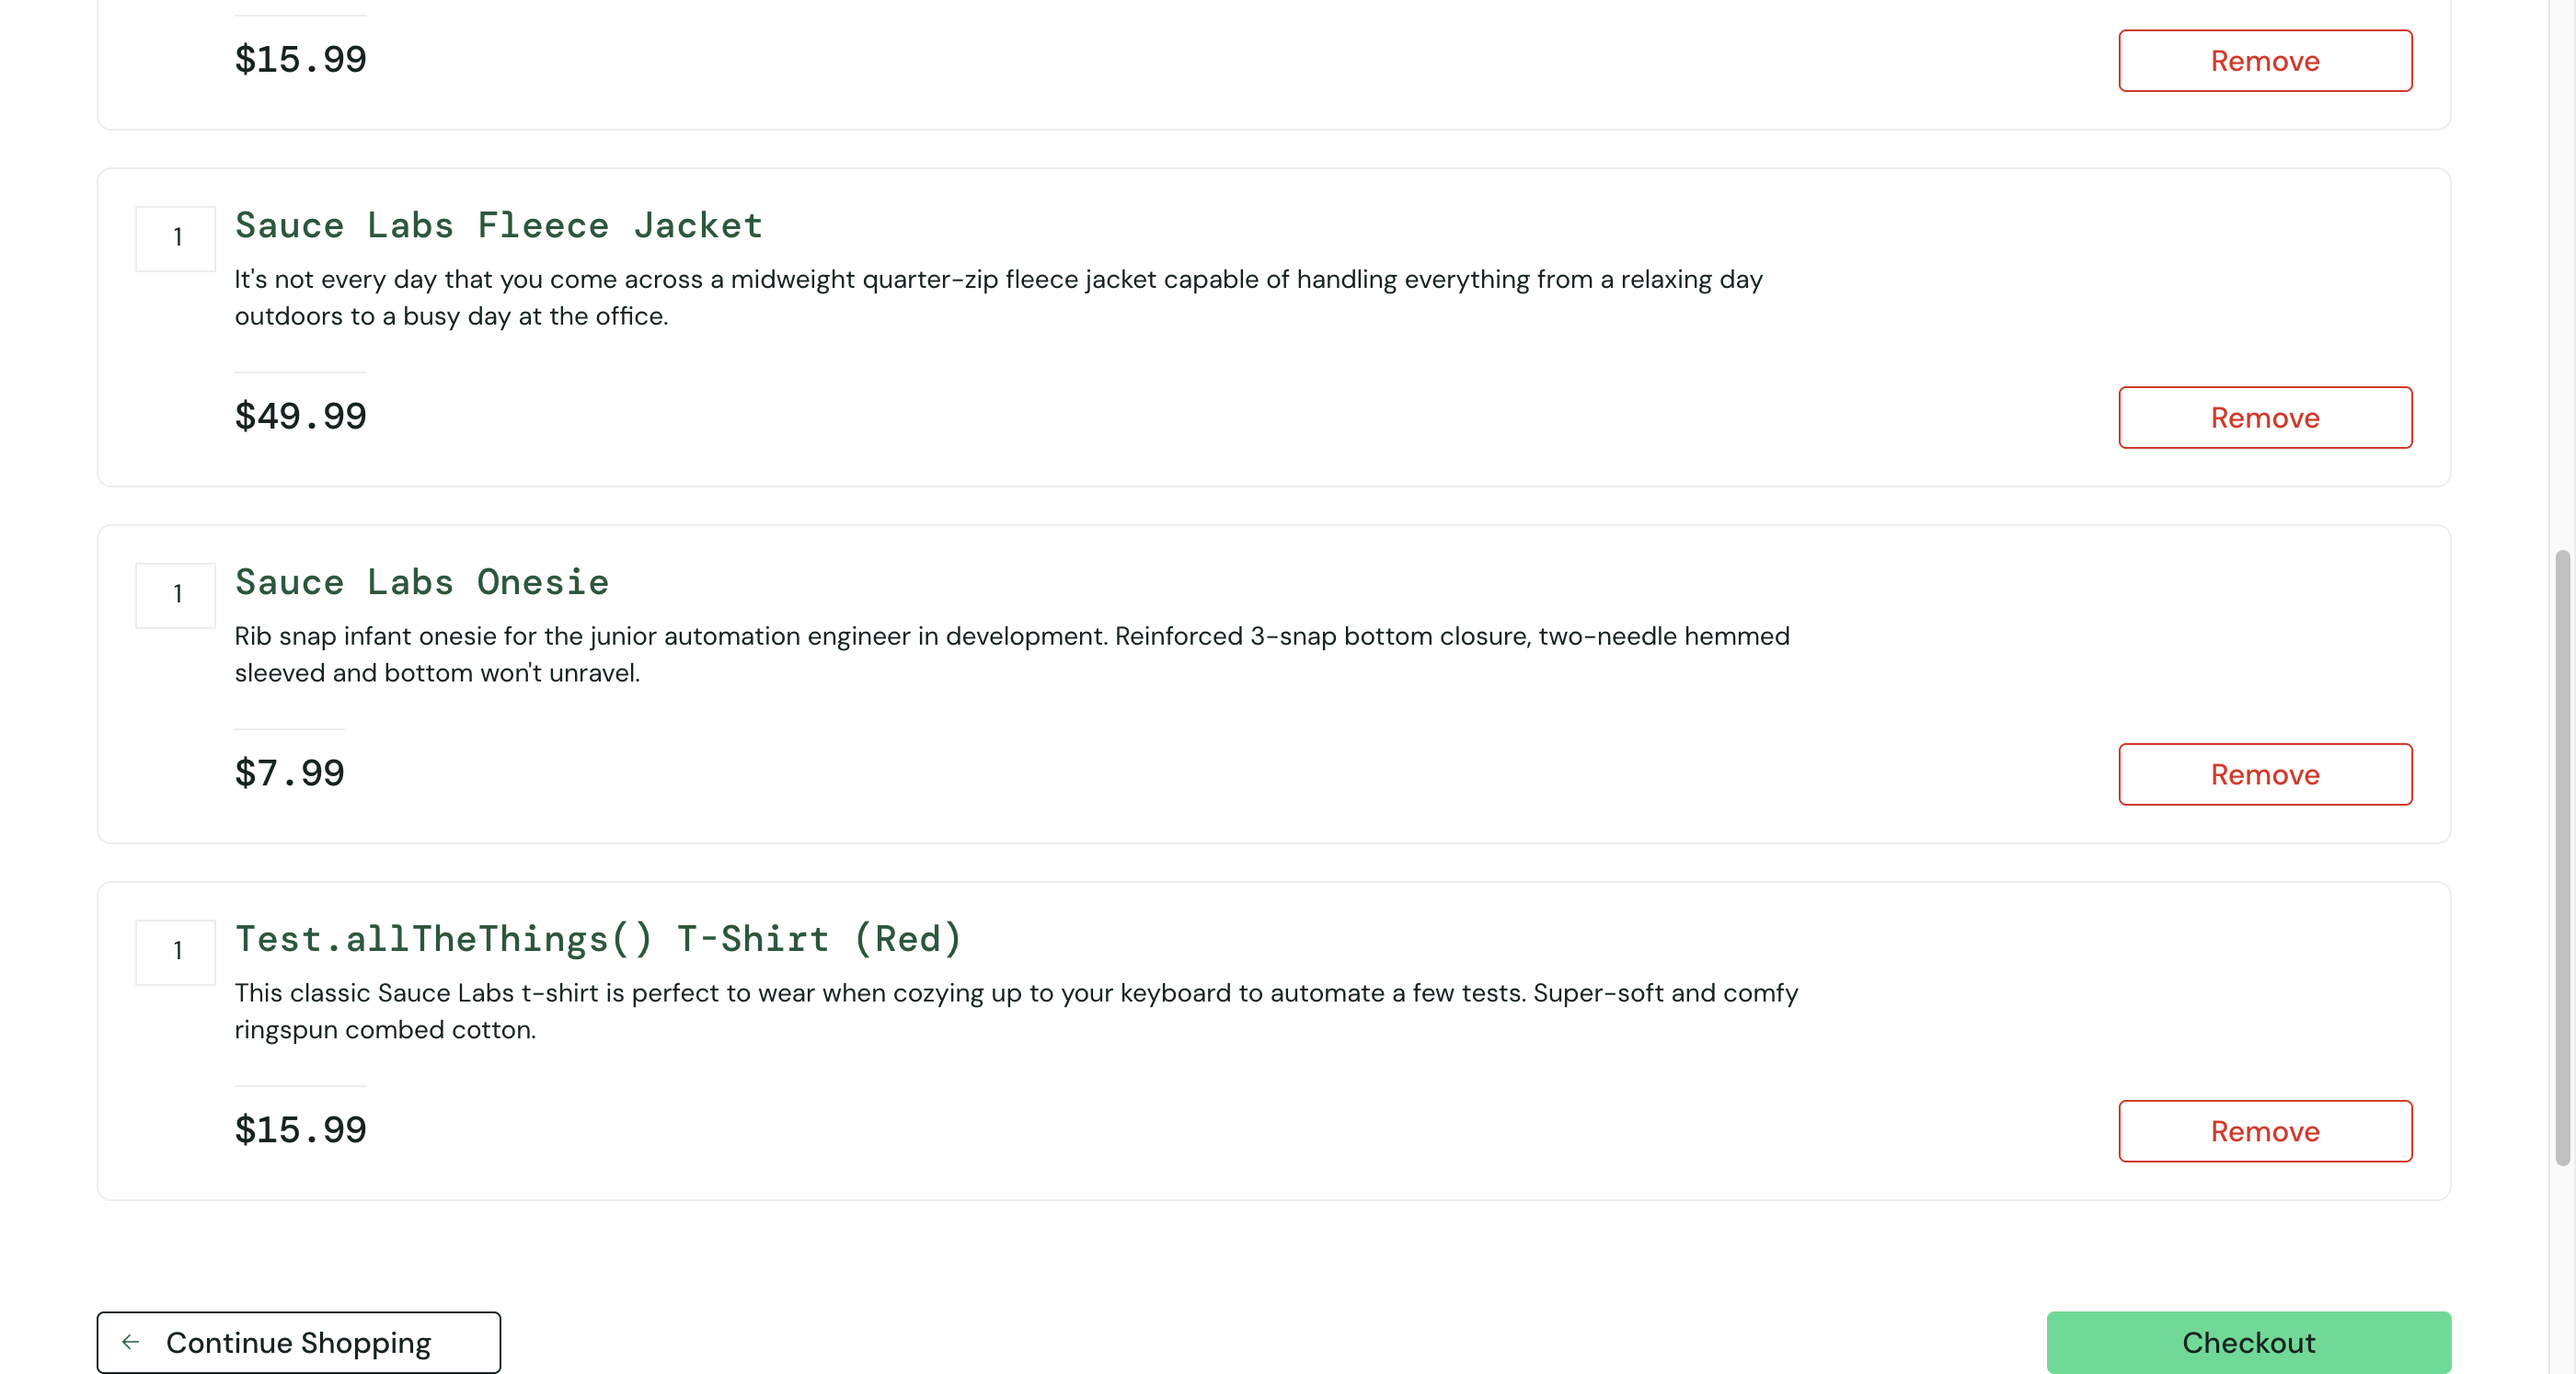
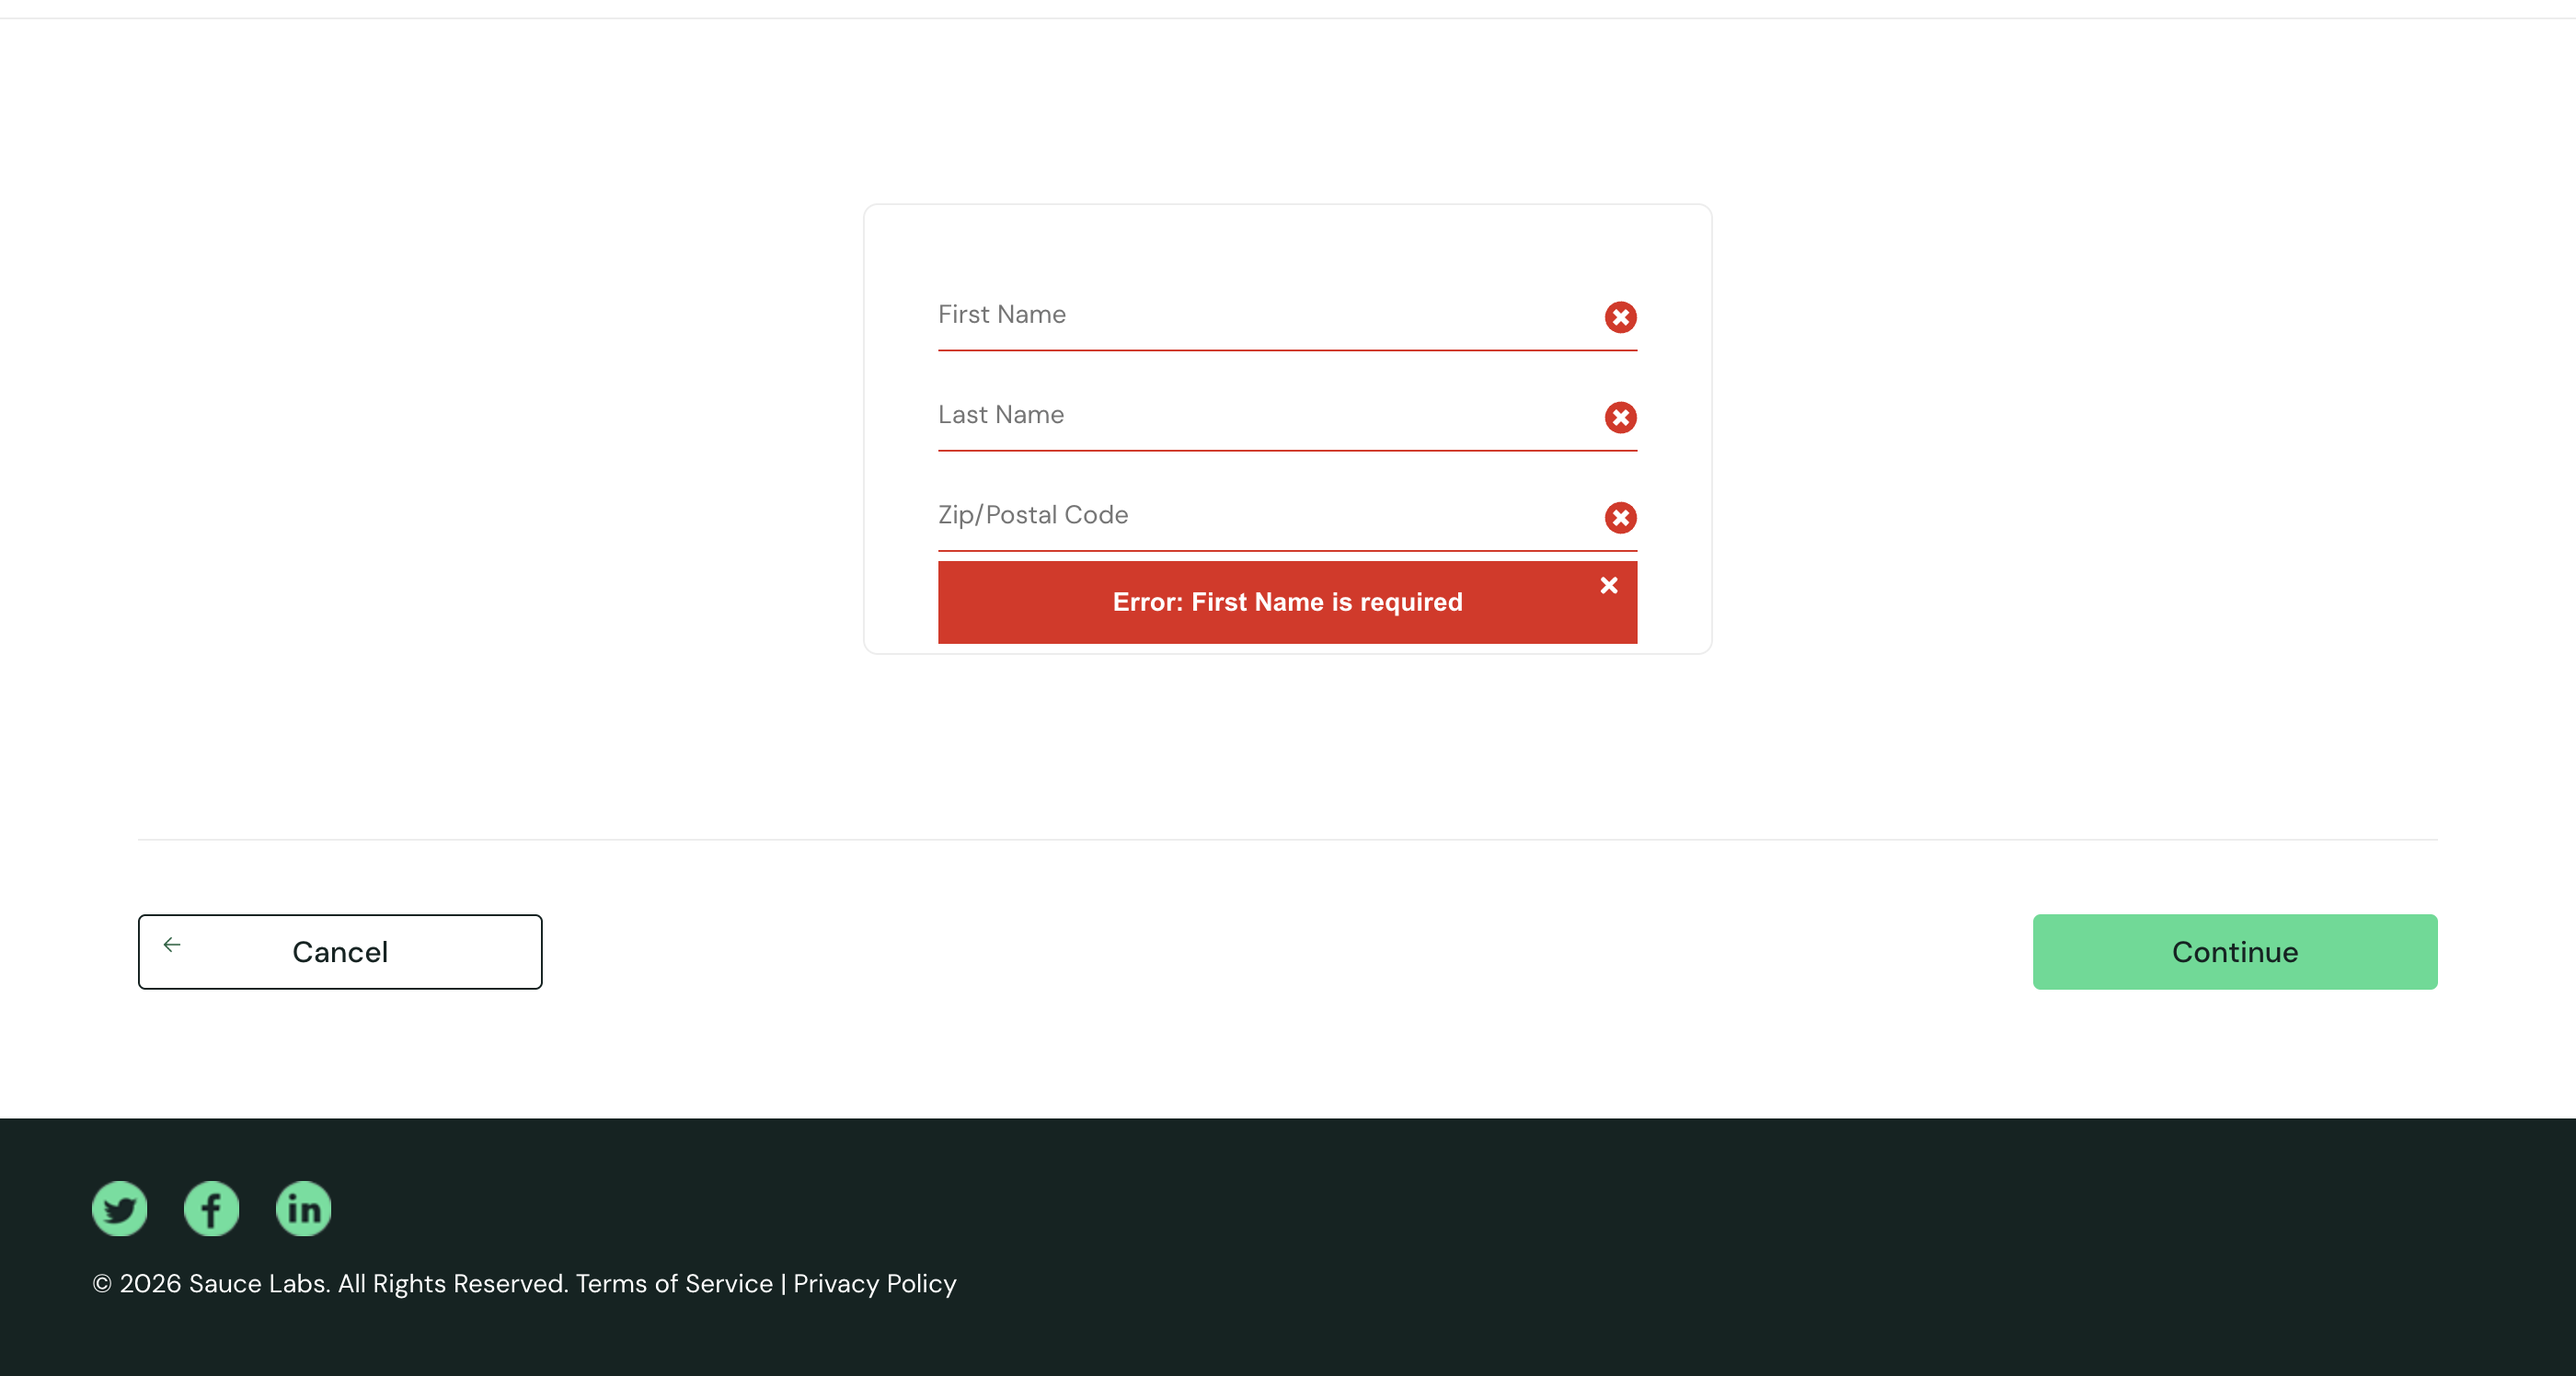
finish the UI check

diff --git a/qa-automation/reports/report.html b/qa-automation/reports/report.html
@@ -328,7 +328,7 @@ div.media {
   </head>
   <body>
     <h1 id="title">report.html</h1>
-    <p>Report generated on 31-Dec-2025 at 08:13:01 by <a href="https://pypi.python.org/pypi/pytest-html">pytest-html</a>
+    <p>Report generated on 03-Jan-2026 at 05:57:52 by <a href="https://pypi.python.org/pypi/pytest-html">pytest-html</a>
         v4.1.1</p>
     <div id="environment-header">
       <h2>Environment</h2>
@@ -382,7 +382,7 @@ div.media {
         <h2>Summary</h2>
         <div class="additional-summary prefix">
         </div>
-        <p class="run-count">1 test took 00:00:06.</p>
+        <p class="run-count">1 test took 00:00:07.</p>
         <p class="filter">(Un)check the boxes to filter the results.</p>
         <div class="summary__reload">
           <div class="summary__reload__button hidden" onclick="location.reload()">
@@ -429,7 +429,7 @@ div.media {
     </table>
   </body>
   <footer>
-    <div id="data-container" data-jsonblob="{&#34;environment&#34;: {&#34;Python&#34;: &#34;3.13.7&#34;, &#34;Platform&#34;: &#34;macOS-26.1-arm64-arm-64bit-Mach-O&#34;, &#34;Packages&#34;: {&#34;pytest&#34;: &#34;9.0.2&#34;, &#34;pluggy&#34;: &#34;1.6.0&#34;}, &#34;Plugins&#34;: {&#34;html&#34;: &#34;4.1.1&#34;, &#34;metadata&#34;: &#34;3.1.1&#34;}, &#34;JAVA_HOME&#34;: &#34;/Library/Java/JavaVirtualMachines/jdk-25.jdk/Contents/Home&#34;}, &#34;tests&#34;: {&#34;ui/tests/test_homepage.py::test_continue_checkout&#34;: [{&#34;extras&#34;: [], &#34;result&#34;: &#34;Passed&#34;, &#34;testId&#34;: &#34;ui/tests/test_homepage.py::test_continue_checkout&#34;, &#34;duration&#34;: &#34;00:00:06&#34;, &#34;resultsTableRow&#34;: [&#34;&lt;td class=\&#34;col-result\&#34;&gt;Passed&lt;/td&gt;&#34;, &#34;&lt;td class=\&#34;col-testId\&#34;&gt;ui/tests/test_homepage.py::test_continue_checkout&lt;/td&gt;&#34;, &#34;&lt;td class=\&#34;col-duration\&#34;&gt;00:00:06&lt;/td&gt;&#34;, &#34;&lt;td class=\&#34;col-links\&#34;&gt;&lt;/td&gt;&#34;], &#34;log&#34;: &#34;----------------------------- Captured stdout call -----------------------------\nurl https://www.saucedemo.com/checkout-step-two.html\n&#34;}]}, &#34;renderCollapsed&#34;: [&#34;passed&#34;], &#34;initialSort&#34;: &#34;result&#34;, &#34;title&#34;: &#34;report.html&#34;}"></div>
+    <div id="data-container" data-jsonblob="{&#34;environment&#34;: {&#34;Python&#34;: &#34;3.13.7&#34;, &#34;Platform&#34;: &#34;macOS-26.1-arm64-arm-64bit-Mach-O&#34;, &#34;Packages&#34;: {&#34;pytest&#34;: &#34;9.0.2&#34;, &#34;pluggy&#34;: &#34;1.6.0&#34;}, &#34;Plugins&#34;: {&#34;html&#34;: &#34;4.1.1&#34;, &#34;metadata&#34;: &#34;3.1.1&#34;}, &#34;JAVA_HOME&#34;: &#34;/Library/Java/JavaVirtualMachines/jdk-25.jdk/Contents/Home&#34;}, &#34;tests&#34;: {&#34;ui/tests/test_homepage.py::test_continue_checkout&#34;: [{&#34;extras&#34;: [], &#34;result&#34;: &#34;Passed&#34;, &#34;testId&#34;: &#34;ui/tests/test_homepage.py::test_continue_checkout&#34;, &#34;duration&#34;: &#34;00:00:07&#34;, &#34;resultsTableRow&#34;: [&#34;&lt;td class=\&#34;col-result\&#34;&gt;Passed&lt;/td&gt;&#34;, &#34;&lt;td class=\&#34;col-testId\&#34;&gt;ui/tests/test_homepage.py::test_continue_checkout&lt;/td&gt;&#34;, &#34;&lt;td class=\&#34;col-duration\&#34;&gt;00:00:07&lt;/td&gt;&#34;, &#34;&lt;td class=\&#34;col-links\&#34;&gt;&lt;/td&gt;&#34;], &#34;log&#34;: &#34;----------------------------- Captured stdout call -----------------------------\nafter continue url: https://www.saucedemo.com/checkout-step-two.html\nCheckout completed \u2705\n&#34;}]}, &#34;renderCollapsed&#34;: [&#34;passed&#34;], &#34;initialSort&#34;: &#34;result&#34;, &#34;title&#34;: &#34;report.html&#34;}"></div>
     <script>
       (function(){function r(e,n,t){function o(i,f){if(!n[i]){if(!e[i]){var c="function"==typeof require&&require;if(!f&&c)return c(i,!0);if(u)return u(i,!0);var a=new Error("Cannot find module '"+i+"'");throw a.code="MODULE_NOT_FOUND",a}var p=n[i]={exports:{}};e[i][0].call(p.exports,function(r){var n=e[i][1][r];return o(n||r)},p,p.exports,r,e,n,t)}return n[i].exports}for(var u="function"==typeof require&&require,i=0;i<t.length;i++)o(t[i]);return o}return r})()({1:[function(require,module,exports){
 const { getCollapsedCategory, setCollapsedIds } = require('./storage.js')

diff --git a/qa-automation/ui/pages/login_page.py b/qa-automation/ui/pages/login_page.py
@@ -1,17 +1,17 @@
 from selenium.webdriver.common.by import By
-import time
+from selenium.webdriver.support.ui import WebDriverWait
+from selenium.webdriver.support import expected_conditions as EC
 
 
 def open_login(driver):
     driver.get("https://www.saucedemo.com/")
+
 
 def do_login(driver, username, password):
     driver.find_element(By.ID, "user-name").send_keys(username)
     driver.find_element(By.ID, "password").send_keys(password)
     driver.find_element(By.ID, "login-button").click()
 
-def get_error_message(driver):
-    return driver.find_element(By.CSS_SELECTOR, "h3[data-test='error']")
 
 def add_all_products_to_cart(driver):
     buttons = driver.find_elements(By.CLASS_NAME, "btn_inventory")
@@ -19,24 +19,35 @@ def add_all_products_to_cart(driver):
         btn.click()
     return len(buttons)
 
+
 def go_to_cart(driver):
-    cart_link = driver.find_element(By.CLASS_NAME, "shopping_cart_link")
-    cart_link.click()
-    return
-
-def checkout(driver):
-    checkout_button = driver.find_element(By.CSS_SELECTOR, ".checkout_button")
-    checkout_button.click()
+    driver.find_element(By.CLASS_NAME, "shopping_cart_link").click()
 
 
-def fill_checkout_info(driver, first_name, last_name, postal_code):
-    driver.find_element(By.ID, "first-name").send_keys(first_name)
+def click_checkout(driver):
+    # SauceDemo checkout button is id="checkout"
+    WebDriverWait(driver, 10).until(
+        EC.element_to_be_clickable((By.ID, "checkout"))
+    ).click()
+
+
+def fill_info_and_continue(driver, first_name, last_name, postal_code):
+    wait = WebDriverWait(driver, 10)
+    wait.until(EC.visibility_of_element_located((By.ID, "first-name"))).send_keys(first_name)
     driver.find_element(By.ID, "last-name").send_keys(last_name)
     driver.find_element(By.ID, "postal-code").send_keys(postal_code)
-    
-def continue_checkout(driver):
-    driver.find_element(By.ID, "continue").click()
+    wait.until(EC.element_to_be_clickable((By.ID, "continue"))).click()
 
 
+def click_finish(driver):
+    WebDriverWait(driver, 10).until(
+        EC.element_to_be_clickable((By.ID, "finish"))
+    ).click()
 
-   
+
+def is_checkout_complete(driver) -> bool:
+    # The exact text appears in class="complete-header"
+    header = WebDriverWait(driver, 10).until(
+        EC.visibility_of_element_located((By.CLASS_NAME, "complete-header"))
+    )
+    return "Thank you for your order!" in header.text

diff --git a/qa-automation/ui/tests/test_homepage.py b/qa-automation/ui/tests/test_homepage.py
@@ -1,67 +1,24 @@
-from ui.pages.login_page import open_login, do_login, get_error_message,add_all_products_to_cart,checkout,go_to_cart,fill_checkout_info,continue_checkout
-import pytest # type: ignore
-from selenium.webdriver.common.by import By
-import time 
-
-"""
-
-def test_login_success(driver):
-    open_login(driver)
-    do_login(driver, "standard_user", "secret_sauce")
-    assert "inventory" in driver.current_url.lower()
-
-def test_login_wrong_password(driver):
-    # GIVEN
-    open_login(driver)
-    # WHEN
-    do_login(driver, "standard_user", "wrong_pass")
-    # THEN
-    assert "inventory" not in driver.current_url.lower()
-    error_message = get_error_message(driver)
-    assert error_message.is_displayed()
-
-def test_add_all_products_to_cart(driver):
-    # GIVEN
-    open_login(driver)
-    do_login(driver, "standard_user", "secret_sauce")
-
-    # WHEN
-    added_count = add_all_products_to_cart(driver)
-
-    # THEN
-    cart_badge = driver.find_element(By.CLASS_NAME, "shopping_cart_badge")
-    assert int(cart_badge.text) == added_count
-    print(f"Added {added_count} products to the cart successfully.")
-
-def test_checkout(driver):
-    open_login(driver)
-    do_login(driver, "standard_user", "secret_sauce")
-    add_all_products_to_cart(driver)
-    go_to_cart(driver)
-    time.sleep(2)
-    checkout(driver)
-"""
+from ui.pages.login_page import (
+    open_login, do_login,
+    add_all_products_to_cart, go_to_cart,
+    click_checkout, fill_info_and_continue,
+    click_finish, is_checkout_complete
+)
+import time
 
 def test_continue_checkout(driver):
     open_login(driver)
     do_login(driver, "standard_user", "secret_sauce")
+
     add_all_products_to_cart(driver)
     go_to_cart(driver)
-    checkout(driver)
-    fill_checkout_info(driver, "John", "Doe", "12345")
-    continue_checkout(driver)
-    
+    click_checkout(driver)
 
-    print("url", driver.current_url)
+    fill_info_and_continue(driver, "John", "Doe", "12345")
+    print("after continue url:", driver.current_url)
 
+    click_finish(driver)
 
-    
-
-    
-    
-    
-    
-    
-
-
-
+    assert is_checkout_complete(driver)
+    time.sleep(4)
+    print("Checkout completed ✅")

diff --git a/qa-automation/conftest.py b/qa-automation/conftest.py
@@ -10,17 +10,22 @@ def driver():
     options = Options()
     options.add_argument("--window-size=1400,900")
 
-    # Google Password Manager
-    prefs = {
-        "credentials_enable_service": False,
-        "profile.password_manager_enabled": False
-    }
-    options.add_experimental_option("prefs", prefs)
+    # Use a clean temporary browsing session (helps a lot)
+    options.add_argument("--incognito")
+    options.add_argument("--disable-notifications")
 
-    drv = webdriver.Chrome(
-        service=Service(ChromeDriverManager().install()),
-        options=options
-    )
+    # Disable Chrome password manager + leak detection popups
+    options.add_experimental_option("prefs", {
+        "credentials_enable_service": False,
+        "profile.password_manager_enabled": False,
+        "password_manager_leak_detection": False,
+        "profile.default_content_setting_values.notifications": 2,
+    })
+
+    # Disable Chromium “password leak detection” features (the popup you saw)
+    options.add_argument("--disable-features=PasswordLeakDetection,PasswordManagerEnablePasswordsLeakCheck")
+
+    drv = webdriver.Chrome(options=options)
     yield drv
     drv.quit()
     
